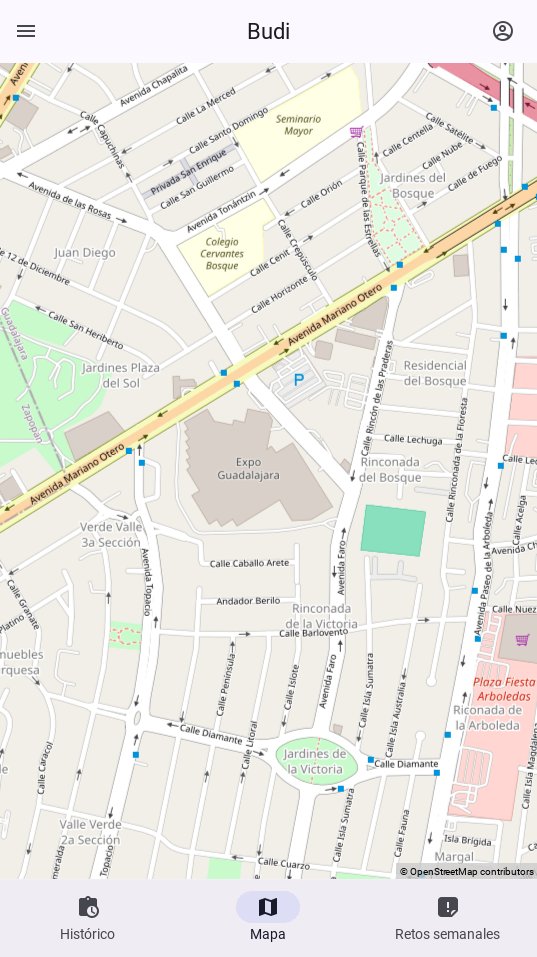
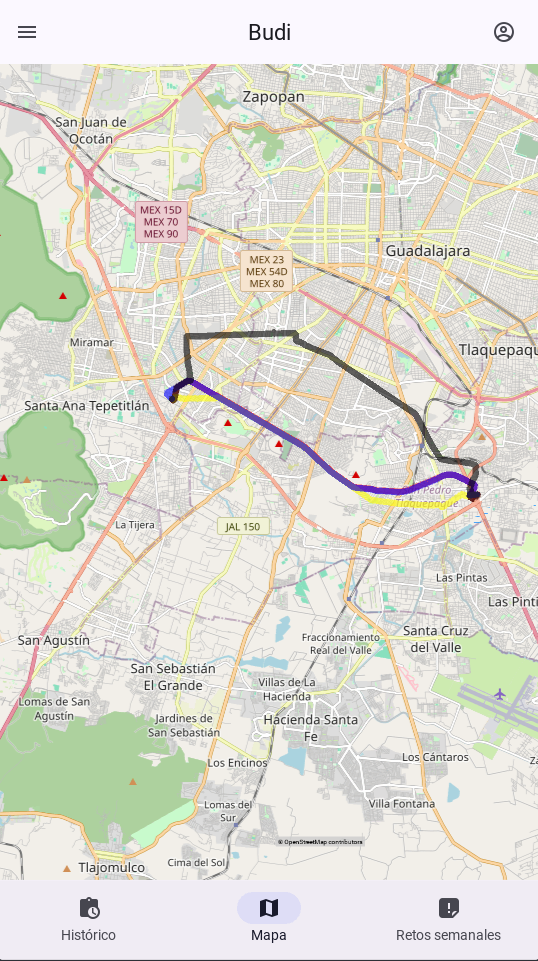
Added map routes

diff --git a/main.py b/main.py
@@ -1,7 +1,9 @@
 import random
 
 import requests
+import polyline
 from kivy.lang import Builder
+from kivy.properties import ObjectProperty
 
 from kivymd.app import MDApp
 from kivymd.uix.boxlayout import MDBoxLayout
@@ -15,7 +17,10 @@ from kivymd.uix.screen import MDScreen
 from kivy.uix.image import Image
 
 from kivy.core.window import Window
-from kivy_garden.mapview import MapView
+from kivy.graphics import Color, Line
+from kivy.graphics.transformation import Matrix
+from kivy.graphics.context_instructions import Translate, Scale
+from kivy_garden.mapview import MapView, MapLayer
 
 Window.size = (540, 960)
 
@@ -51,10 +56,62 @@ class MainScreen(MDScreen):
     pass
 
 
+class LineMapLayer(MapLayer):
+    def __init__(self, **kwargs):
+        super(LineMapLayer, self).__init__(**kwargs)
+        self.zoom = 0
+
+    def reposition(self):
+        mapview = self.parent
+
+        #: Must redraw when the zoom changes
+        #: as the scatter transform resets for the new tiles
+        if (self.zoom != mapview.zoom):
+            self.draw_line()
+
+    def draw_line(self, *args):
+        mapview = self.parent
+        self.zoom = mapview.zoom
+        res = requests.get('https://budiserver-h4gt44kccq-uc.a.run.app/alternateRouter')
+        candidates = res.json()
+
+        lines = []
+        for method in candidates:
+            line = polyline.decode(candidates[method]['polyline'])
+
+            point_list = []
+            for point in line:
+                screen_point = mapview.get_window_xy_from(point[0], point[1], mapview.zoom)
+                point_list.append(screen_point)
+
+            lines.append(point_list)
+
+            # When zooming we must undo the current scatter transform
+            # or the animation makes the line misplaced
+        scatter = mapview._scatter
+        x,y,s = scatter.x, scatter.y, scatter.scale
+
+        with self.canvas:
+            self.canvas.clear()
+            Scale(1/s,1/s,1)
+            Translate(-x,-y)
+            colors = [(1.,0.,0.,.6),
+                      (1.,1.,0.,.6),
+                      (0.,0.,1.,.6),
+                      (0.,0.,0.,.6)]
+
+            for i, line in enumerate(lines):
+                Color(colors[i][0], colors[i][1], colors[i][2], colors[i][3])
+                Line(points=line, width=5, joint="bevel")
+
+
 class MapScreen(MDScreen):
     def __init__(self, **kwargs):
         super(MapScreen, self).__init__(**kwargs)
-        self.add_widget(MapView(zoom=16, lat=20.653, lon=-103.391))
+        map_view = MapView(zoom=13, lat=20.5931, lon=-103.3789)
+        map_view.add_layer(LineMapLayer())
+
+        self.add_widget(map_view)
 
 
 class MissionCard(MDCard):
